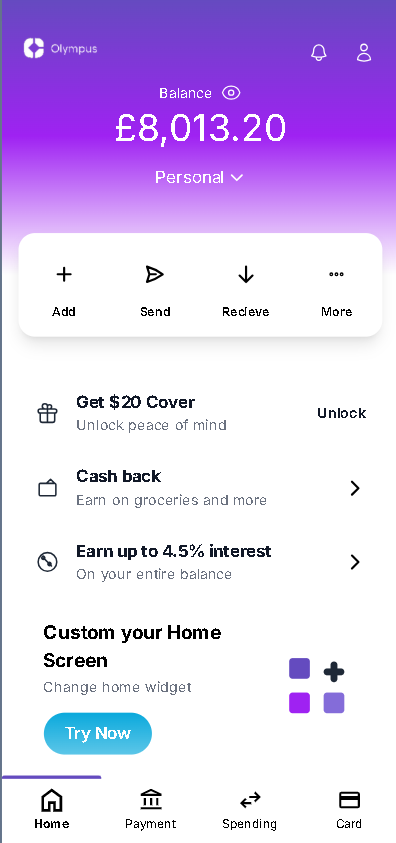
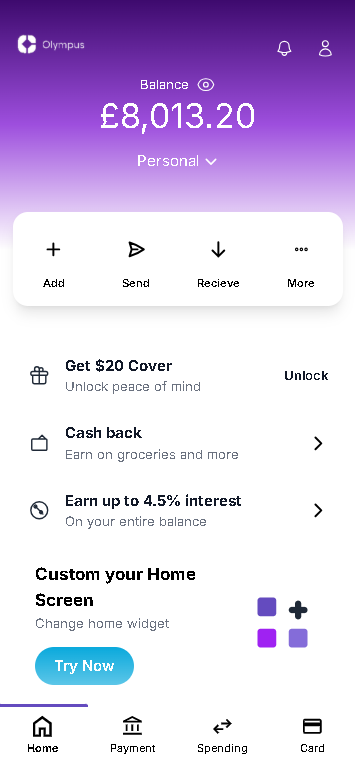
fix: screenshot

diff --git a/src/components/header/headerBase.jsx b/src/components/header/headerBase.jsx
@@ -9,7 +9,7 @@ import Balance from './balance';
 function HeaderBase() {
   return (
    
-    <div className='bg-gradient-to-b from-[#644BBF] via-[#9F22F2] to-white  h-[35%] w-full  relative overflow-hidden'>
+    <div className='bg-gradient-to-b from-[#3C096C] via-[#9D4EDD] to-white  h-[35%] w-full  relative overflow-hidden'>
       <img
           src={logo}
           alt='Logo'

diff --git a/src/components/header/Notificacao.jsx b/src/components/header/Notificacao.jsx
@@ -20,7 +20,7 @@ const NotificacaoIcon = ({className}) =>{
                 viewBox="0 0 24 24"
                 strokeWidth={1.5}
                 stroke="currentColor"
-                className="w-5 h-5" // Tamanho do ícone
+                className="w-5 h-5"
             >
                 <path
                 strokeLinecap="round"

diff --git a/README.md b/README.md
@@ -10,7 +10,7 @@ A interface original (em preto e branco) foi interpretada e redesenhada com foco
 
 A paleta de cores foi definida para criar um ambiente visual agradável e coeso.
 
-* **Roxo Vibrante (`#7B4BBF`):** Usado para elementos de destaque e como a cor principal do degradê no cabeçalho, transmitindo energia e modernidade.
+* **Roxo escuro (`#3C096C`):** Usado para elementos de destaque e como a cor principal do degradê no cabeçalho, transmitindo energia e modernidade.
 * **Lilás Intermediário (`#9B79E1`):** Uma transição suave no degradê do cabeçalho, mantendo a harmonia.
 * **Lilás Claro / Fundo (`#D4C7F5`):** A cor de fundo principal da aplicação, escolhida para ser leve e visualmente calma, permitindo que o conteúdo se destaque. Esta cor se mescla perfeitamente com a base do cabeçalho, criando uma sensação de continuidade.
 * **Branco (`#FFFFFF`):** Utilizado para os cartões e superfícies que exigem clareza e destaque para o conteúdo, como a área das ações rápidas e a lista de vantagens.
